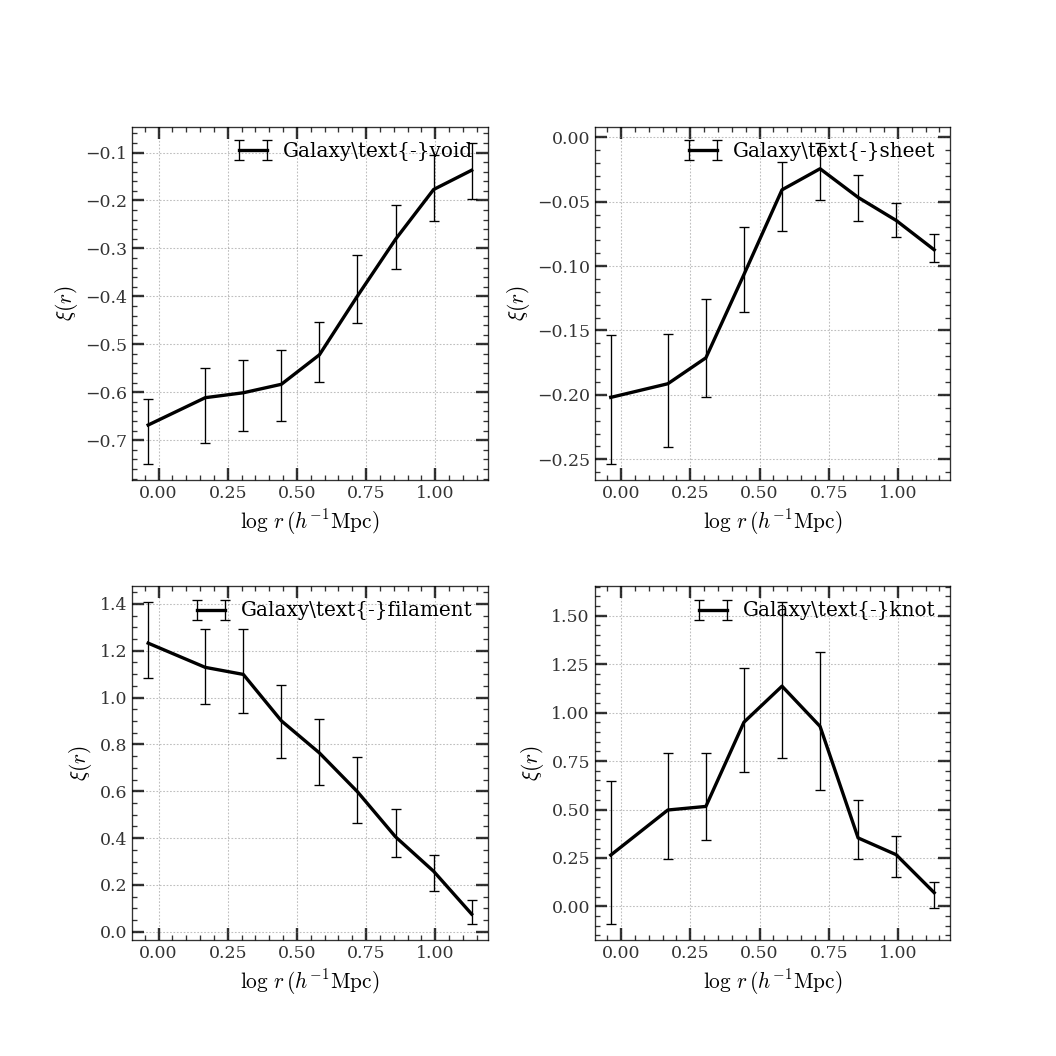
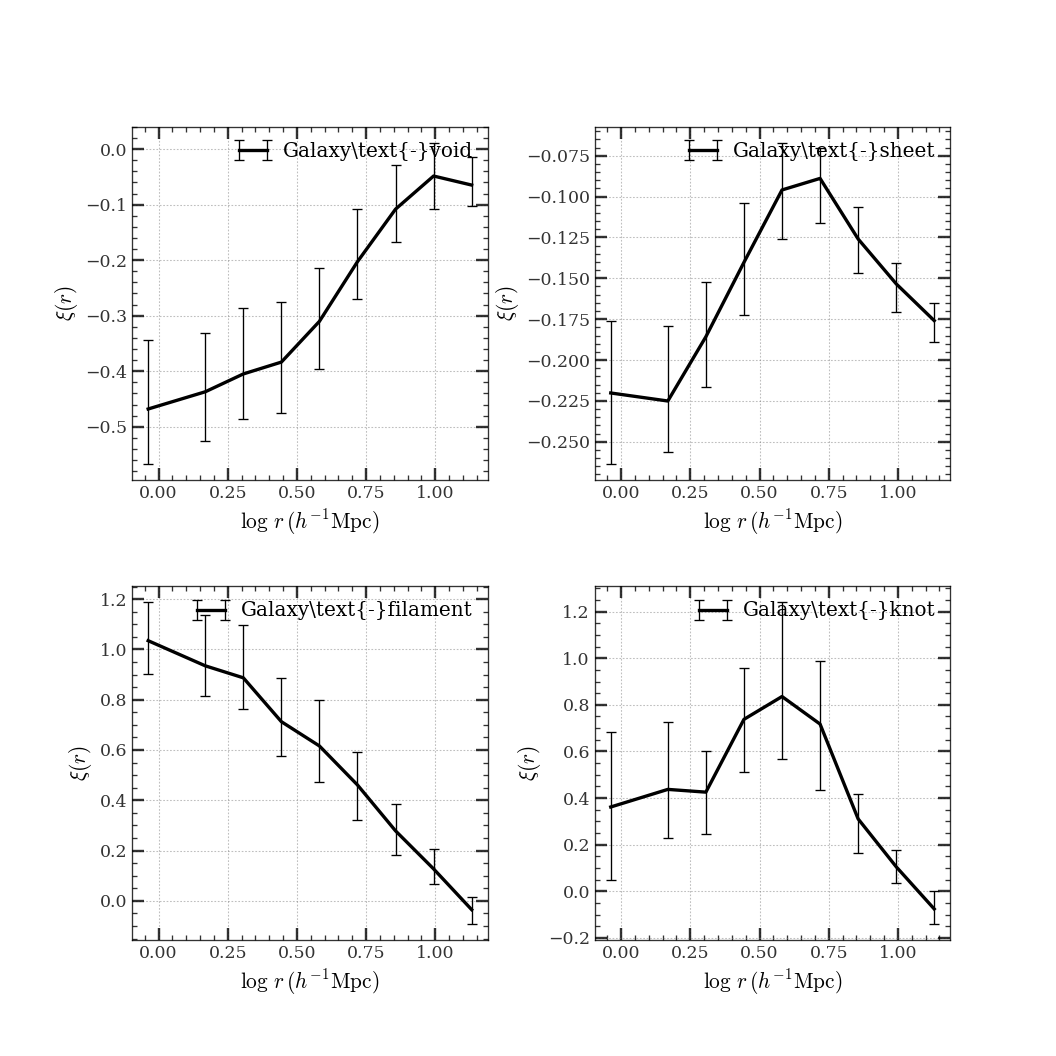
Switch the mask

diff --git a/docs/code_samples/galaxy_web_cross_from_obs_sample.py b/docs/code_samples/galaxy_web_cross_from_obs_sample.py
@@ -61,7 +61,8 @@ mass_weighted = True            # Whether to weight each field point by its dens
 
 def correct_rsd(target_sample: DataDict[str, np.ndarray]):
     recon_sample = h5.File.load_from(file_recon_sample)
-    mask = recon_sample['is_recon_safe']
+    mask = recon_sample['is_recon']
+    mask = np.ones_like(mask)
     recon_sample = DataDict({k: v[mask] for k, v in recon_sample.items()})
     
     x_recon = np.column_stack(recon_sample['ra', 'dec', 'z_obs'])
